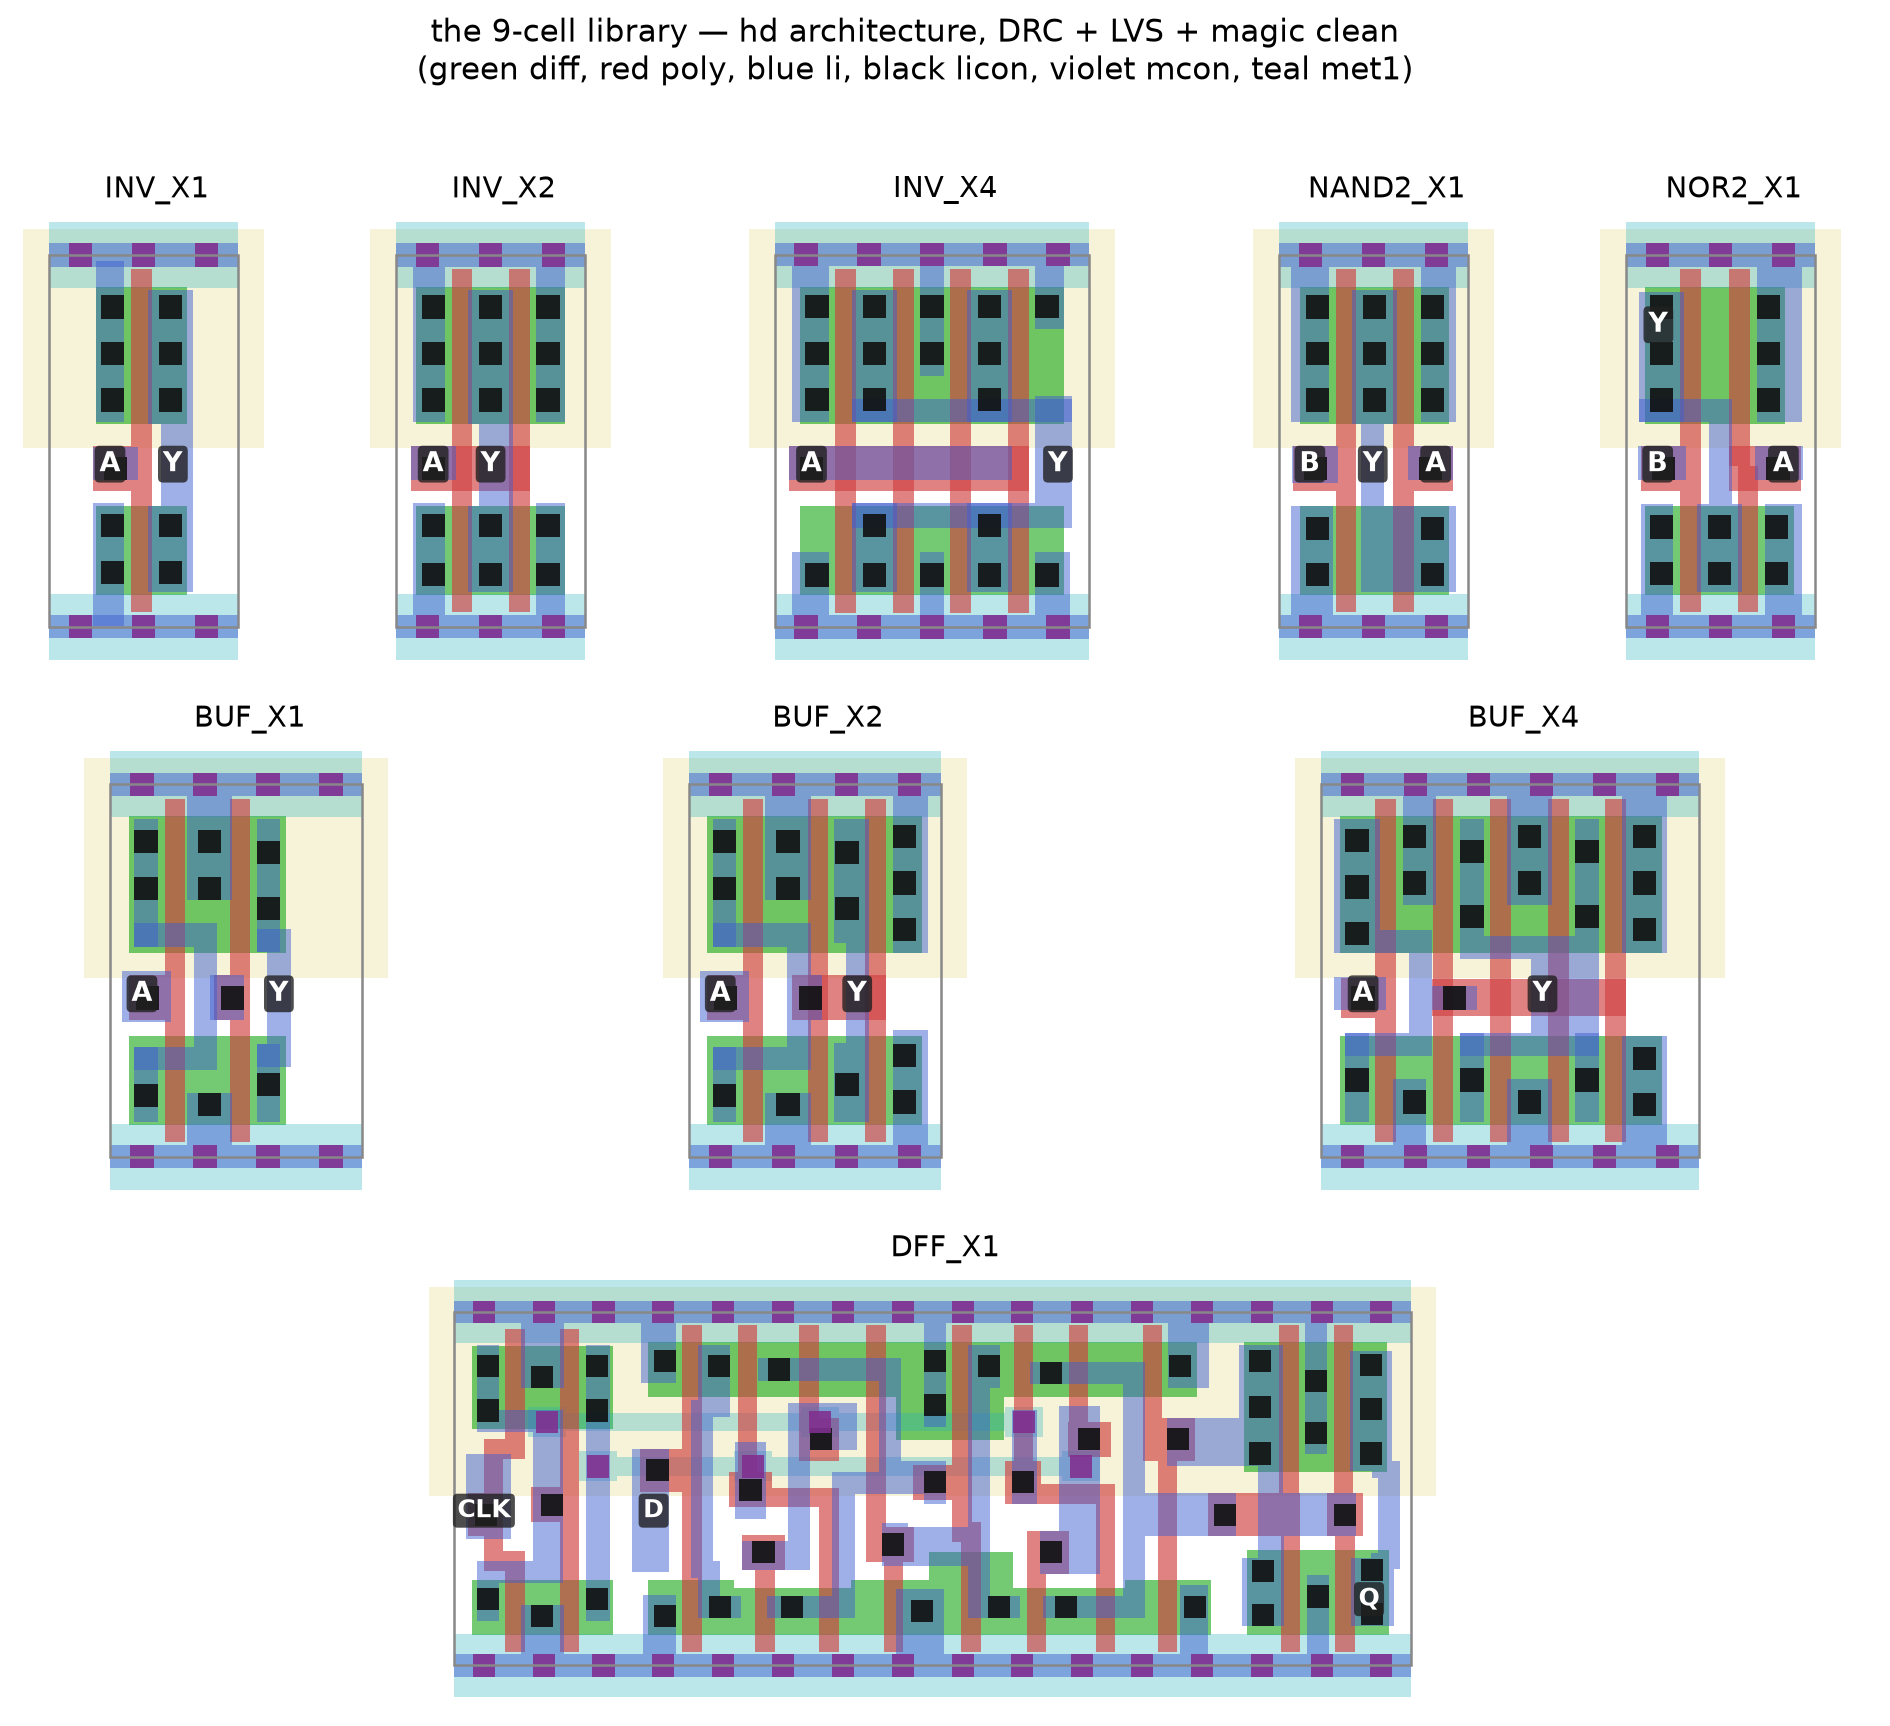
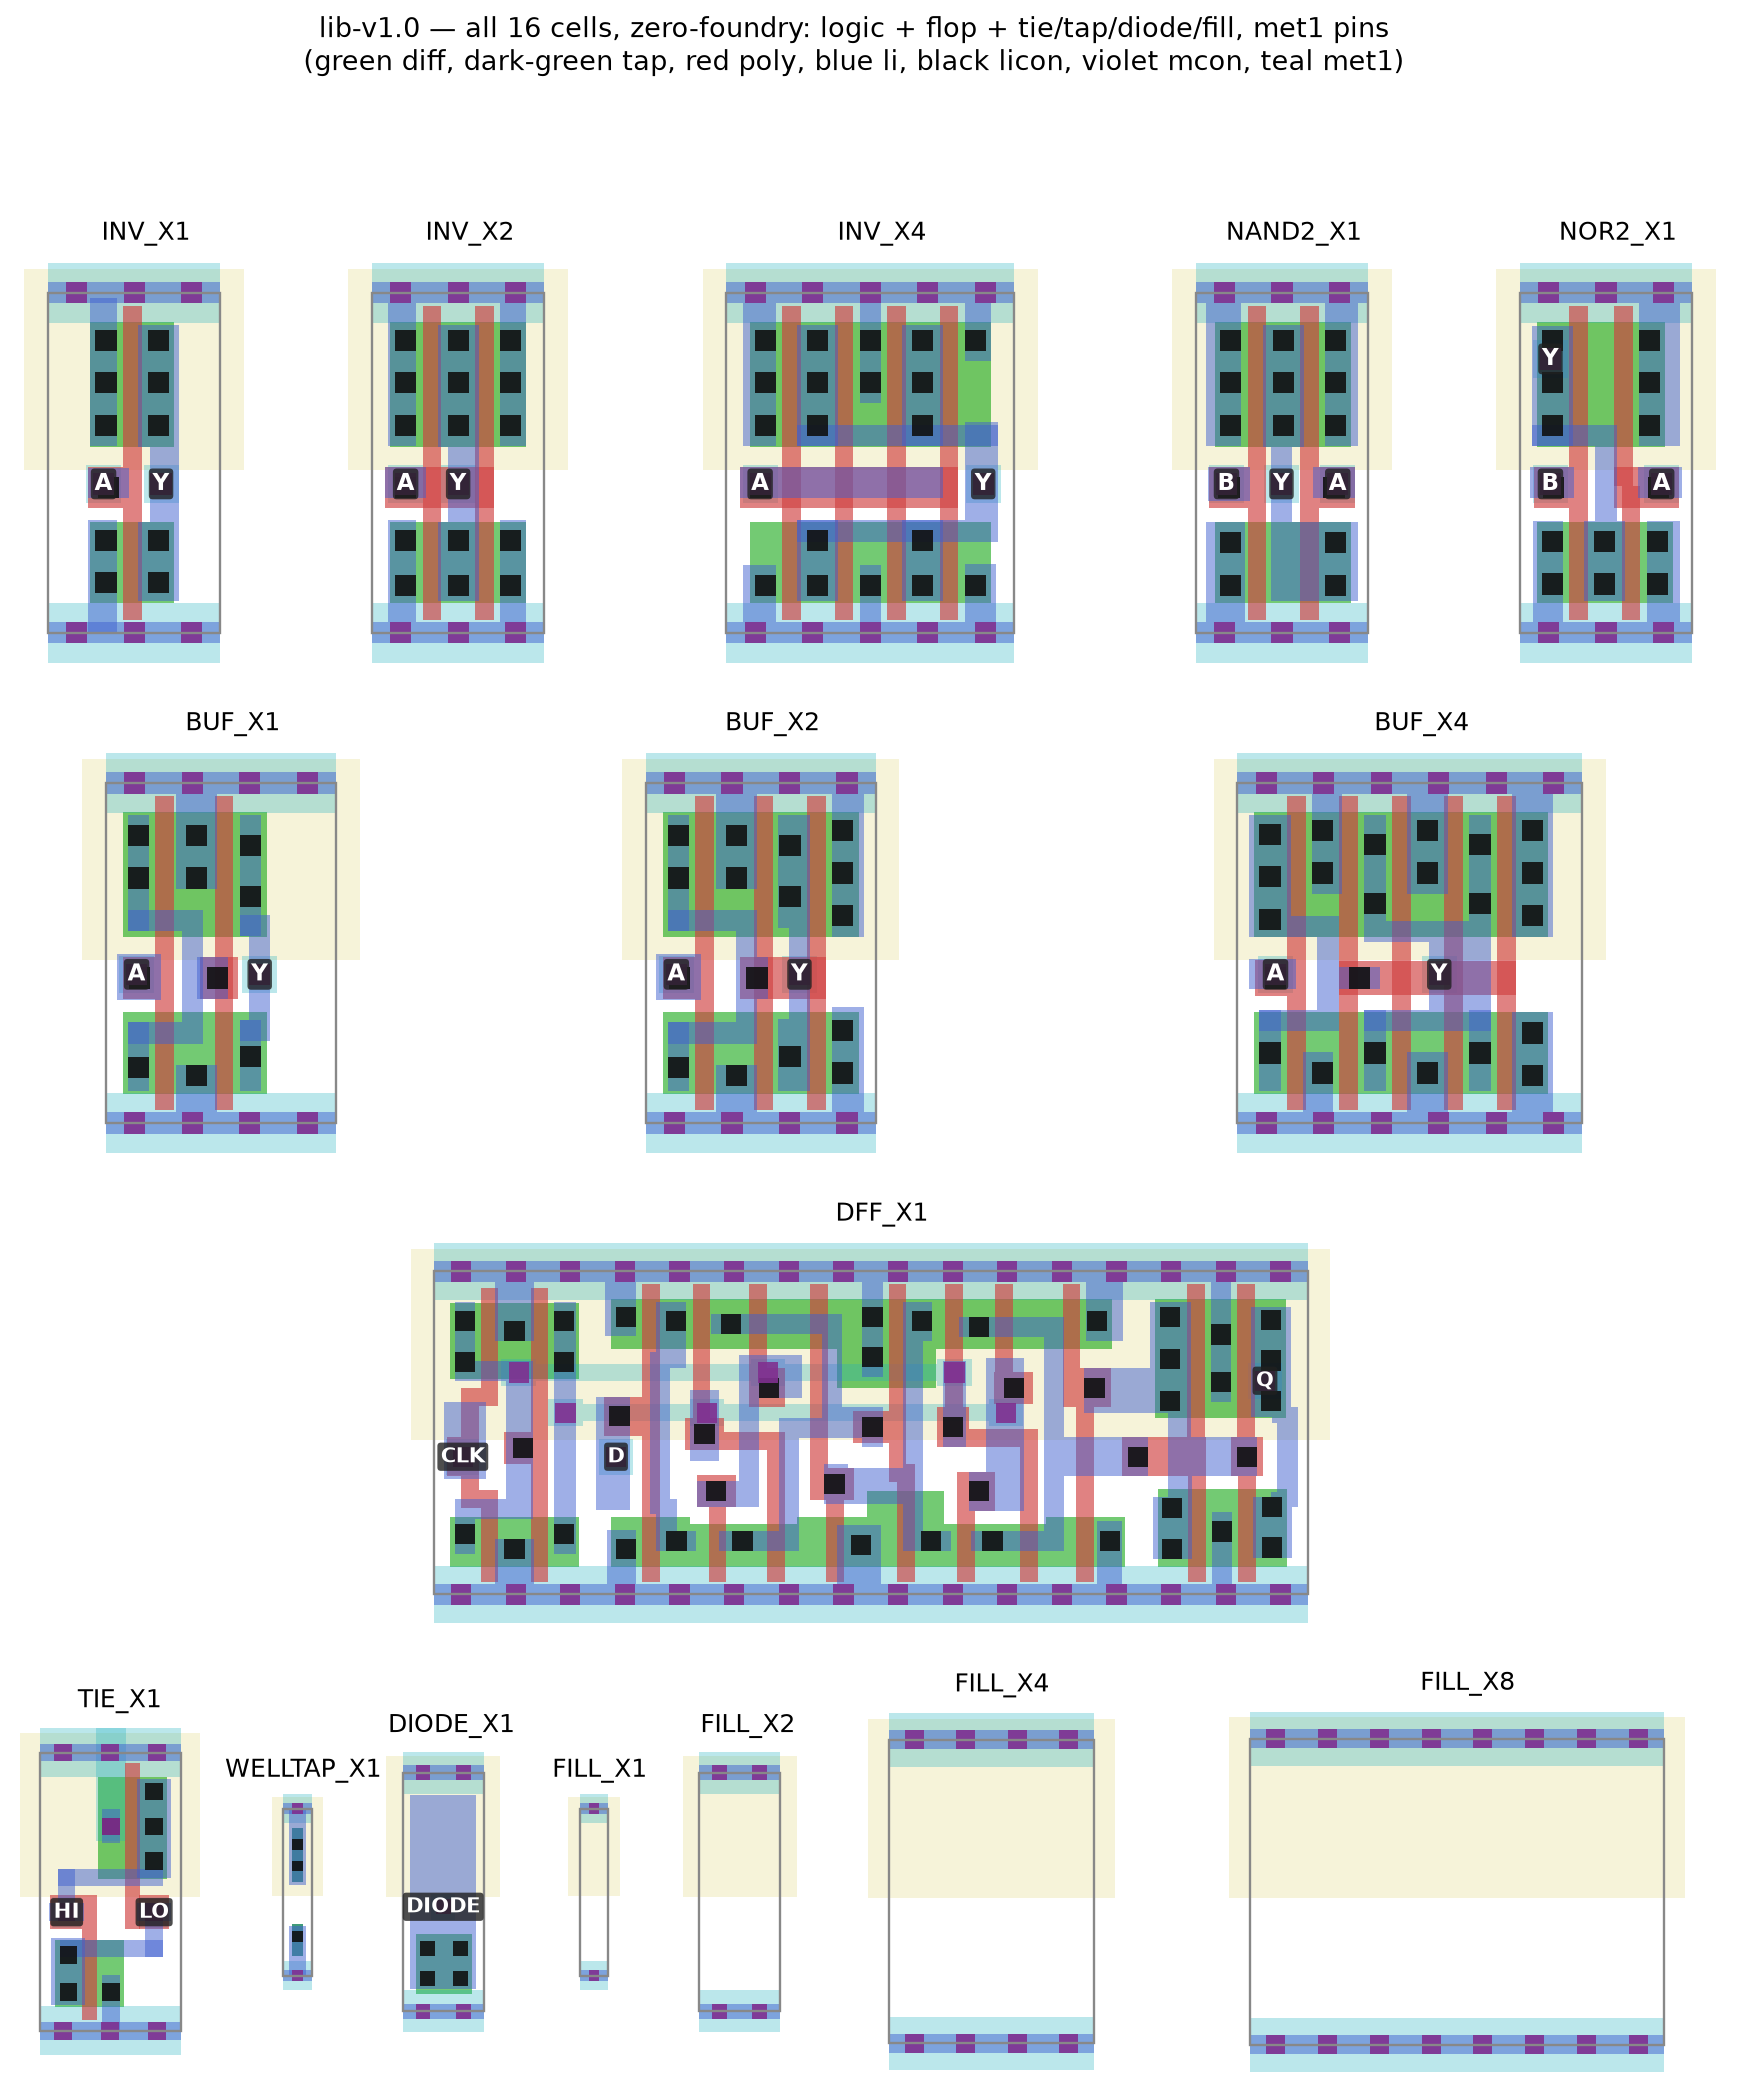
README + contact sheet: all 16 cells of lib-v1.0
Claude-Session: https://claude.ai/code/session_01BBgRsC21eUfRQYrmY8tttg

diff --git a/README.md b/README.md
@@ -10,9 +10,10 @@ that went to fabrication (TTSKY26c, commit b646d057).
 
 1. **Device probe** (`flow/device_probe.py`): measure sky130 n/pFET drive
    currents in ngspice → transistor sizing rules for the library.
-2. **Cell netlists** (`flow/cells.py`): 9 static-CMOS cells at
-   transistor level (INV x3, BUF x3, NAND2, NOR2, DFF), one entry per
-   physical finger, generated with the measured sizing.
+2. **Cell netlists** (`flow/cells.py`): 9 characterized static-CMOS
+   cells at transistor level (INV x3, BUF x3, NAND2, NOR2, DFF), one
+   entry per physical finger, generated with the measured sizing —
+   plus 7 physical-only cells (tie/tap/diode/fill) in `flow/layout.py`.
 3. **Own characterizer** (`flow/characterize.py`): ngspice transient
    measurements → NLDM Liberty (`out/own.lib`) + Verilog models. Delays,
    transitions, input caps, leakage, clk→Q, setup — all measured by us.
@@ -42,7 +43,7 @@ Same taped-out RTL, same yosys+ABC flow, two Liberty targets:
 | ABC critical path (ps) | **1 890** | 3 525 | **0.54** |
 | meets the tapeout's 50 MHz | YES | YES | — |
 
-![the nine cells](docs/cells_v2.png)
+![all sixteen cells of lib-v1.0](docs/cells_v2.png)
 
 **v2 is the library the phase-6 routing failure demanded.** v1 sized for
 symmetric edges (Wp = 2.61×Wn, measured) and proved DRC/LVS-clean — then
@@ -58,10 +59,12 @@ device per physical finger). Cell areas equal the foundry's exactly
 (3/3/5/4/6/3/3 sites), and the full-design area penalty collapsed from
 2.17× to 1.09×.
 
-The library is 9 cells — INV_X1/X2/X4, BUF_X1/X2/X4, NAND2, NOR2, and
-DFF_X1 (NOR3 and NAND3 were *dropped* after routing-cost analysis —
-library design is economics; their instances remap to NAND2/NOR2 chains
-and the cost above is measured, not hidden). LVS earned its keep in
+The library is 16 cells: 9 characterized — INV_X1/X2/X4, BUF_X1/X2/X4,
+NAND2, NOR2, DFF_X1 — plus 7 physical-only cells that complete
+self-sufficiency: TIE_X1 (cross-coupled 2T tie), WELLTAP_X1, DIODE_X1
+(antenna), FILL_X1–X8. (NOR3 and NAND3 were *dropped* after routing-cost
+analysis — library design is economics; their instances remap to
+NAND2/NOR2 chains and the cost above is measured, not hidden.) LVS earned its keep in
 v1 by catching a double-width NFET in the BUF cells that DRC could never
 see; in v2 the extractor's multifinger merge is mirrored in the reference
 netlists (`flow/run_lvs_all.py`).
@@ -164,14 +167,17 @@ characterized honestly, not hidden. Details and cell mix:
   run natively on Windows (ngspice + oss-cad-suite yosys + KLayout + the
   ciel-managed sky130A PDK); P&R and the magic checks run in CI via the
   LibreLane container (`harden` + `magic-views` workflows, both green).
-- All 9 cell areas are REAL (signoff layouts), the DFF included; every
-  cell is DRC-clean (official KLayout deck), LVS-matched, and at
-  foundry-cell parity under magic DRC.
+- All 16 cells have REAL signoff layouts; every cell is DRC-clean
+  (official KLayout deck), LVS-matched where devices exist, and at
+  foundry-cell parity under magic DRC. Signal pins are on met1
+  (in-cell mcon + pad) — the router never touches li.
 - Library v1 (symmetric-drive experiment) is preserved at tag
   `v1-symmetric-drive`; its post-mortem is in `PLAN.md`.
-- Identified next leg: own tie/tap/fill/antenna cells + steering CTS and
-  hold repair away from foundry cells, so the only foundry content left
-  is the interconnect definition itself.
+- Zero-foundry leg COMPLETE and released as **`lib-v1.0`** — the only
+  foundry content left is the interconnect definition itself. Next
+  legs: the vertical-slice tapeout consumes this tag; then v3 cells on
+  devphys-derived custom device geometries; internal-power (dynamic
+  energy) characterization is the known gap in own.lib.
 
 ## Requirements
 